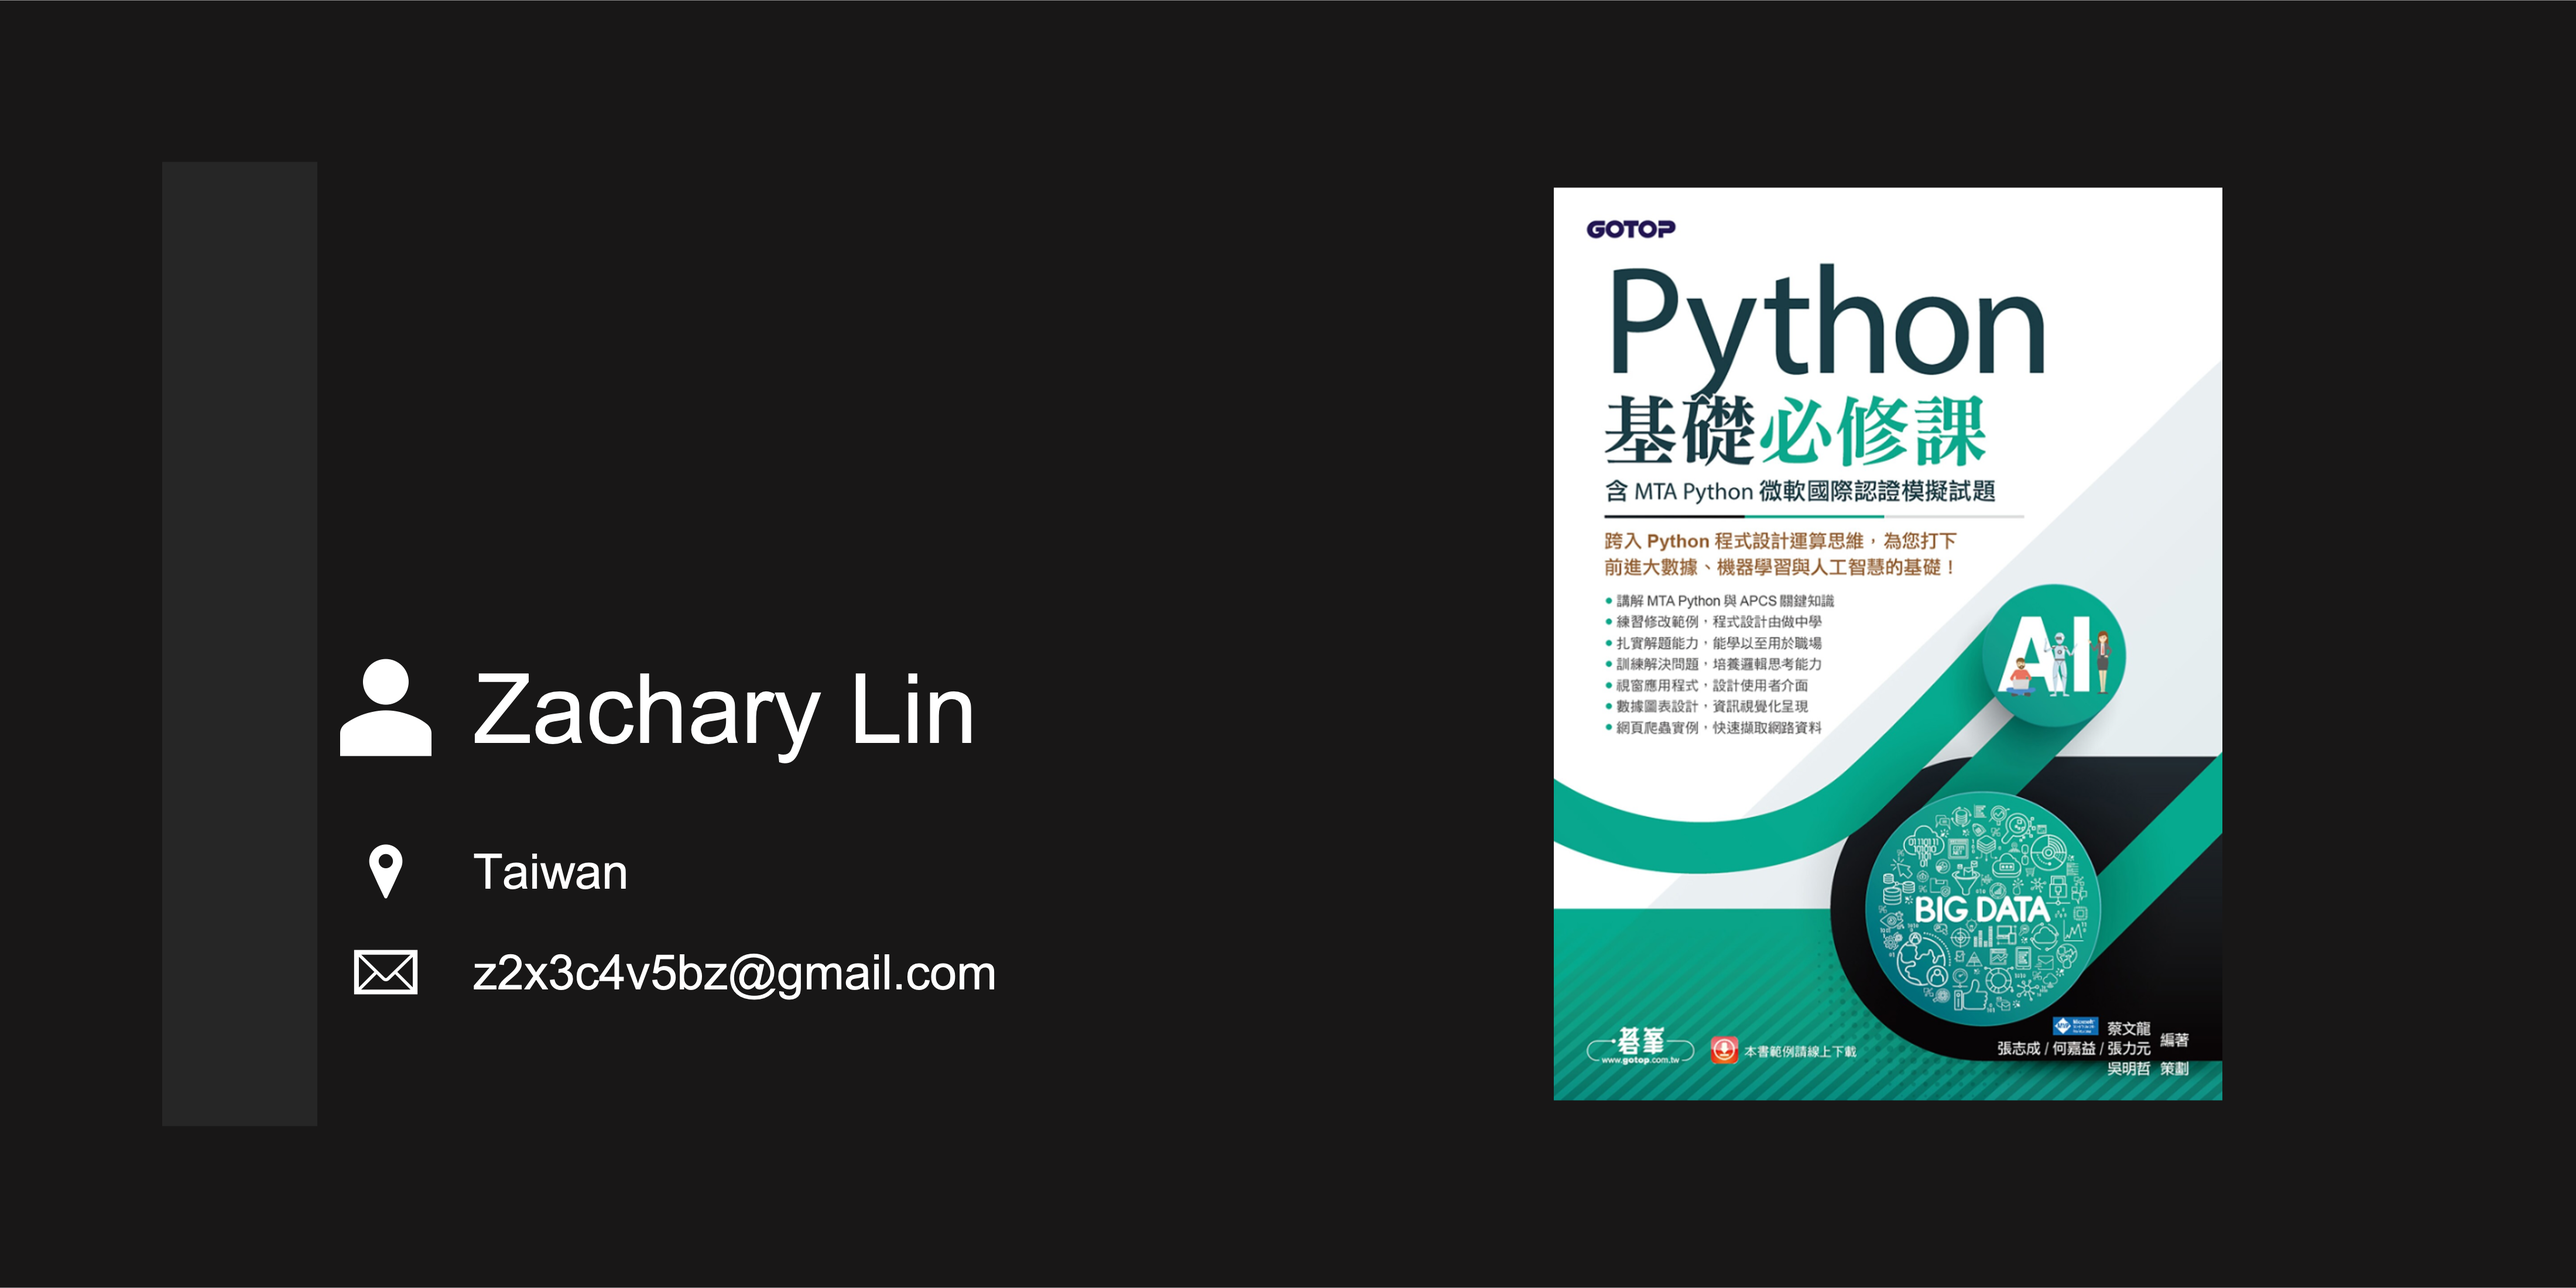
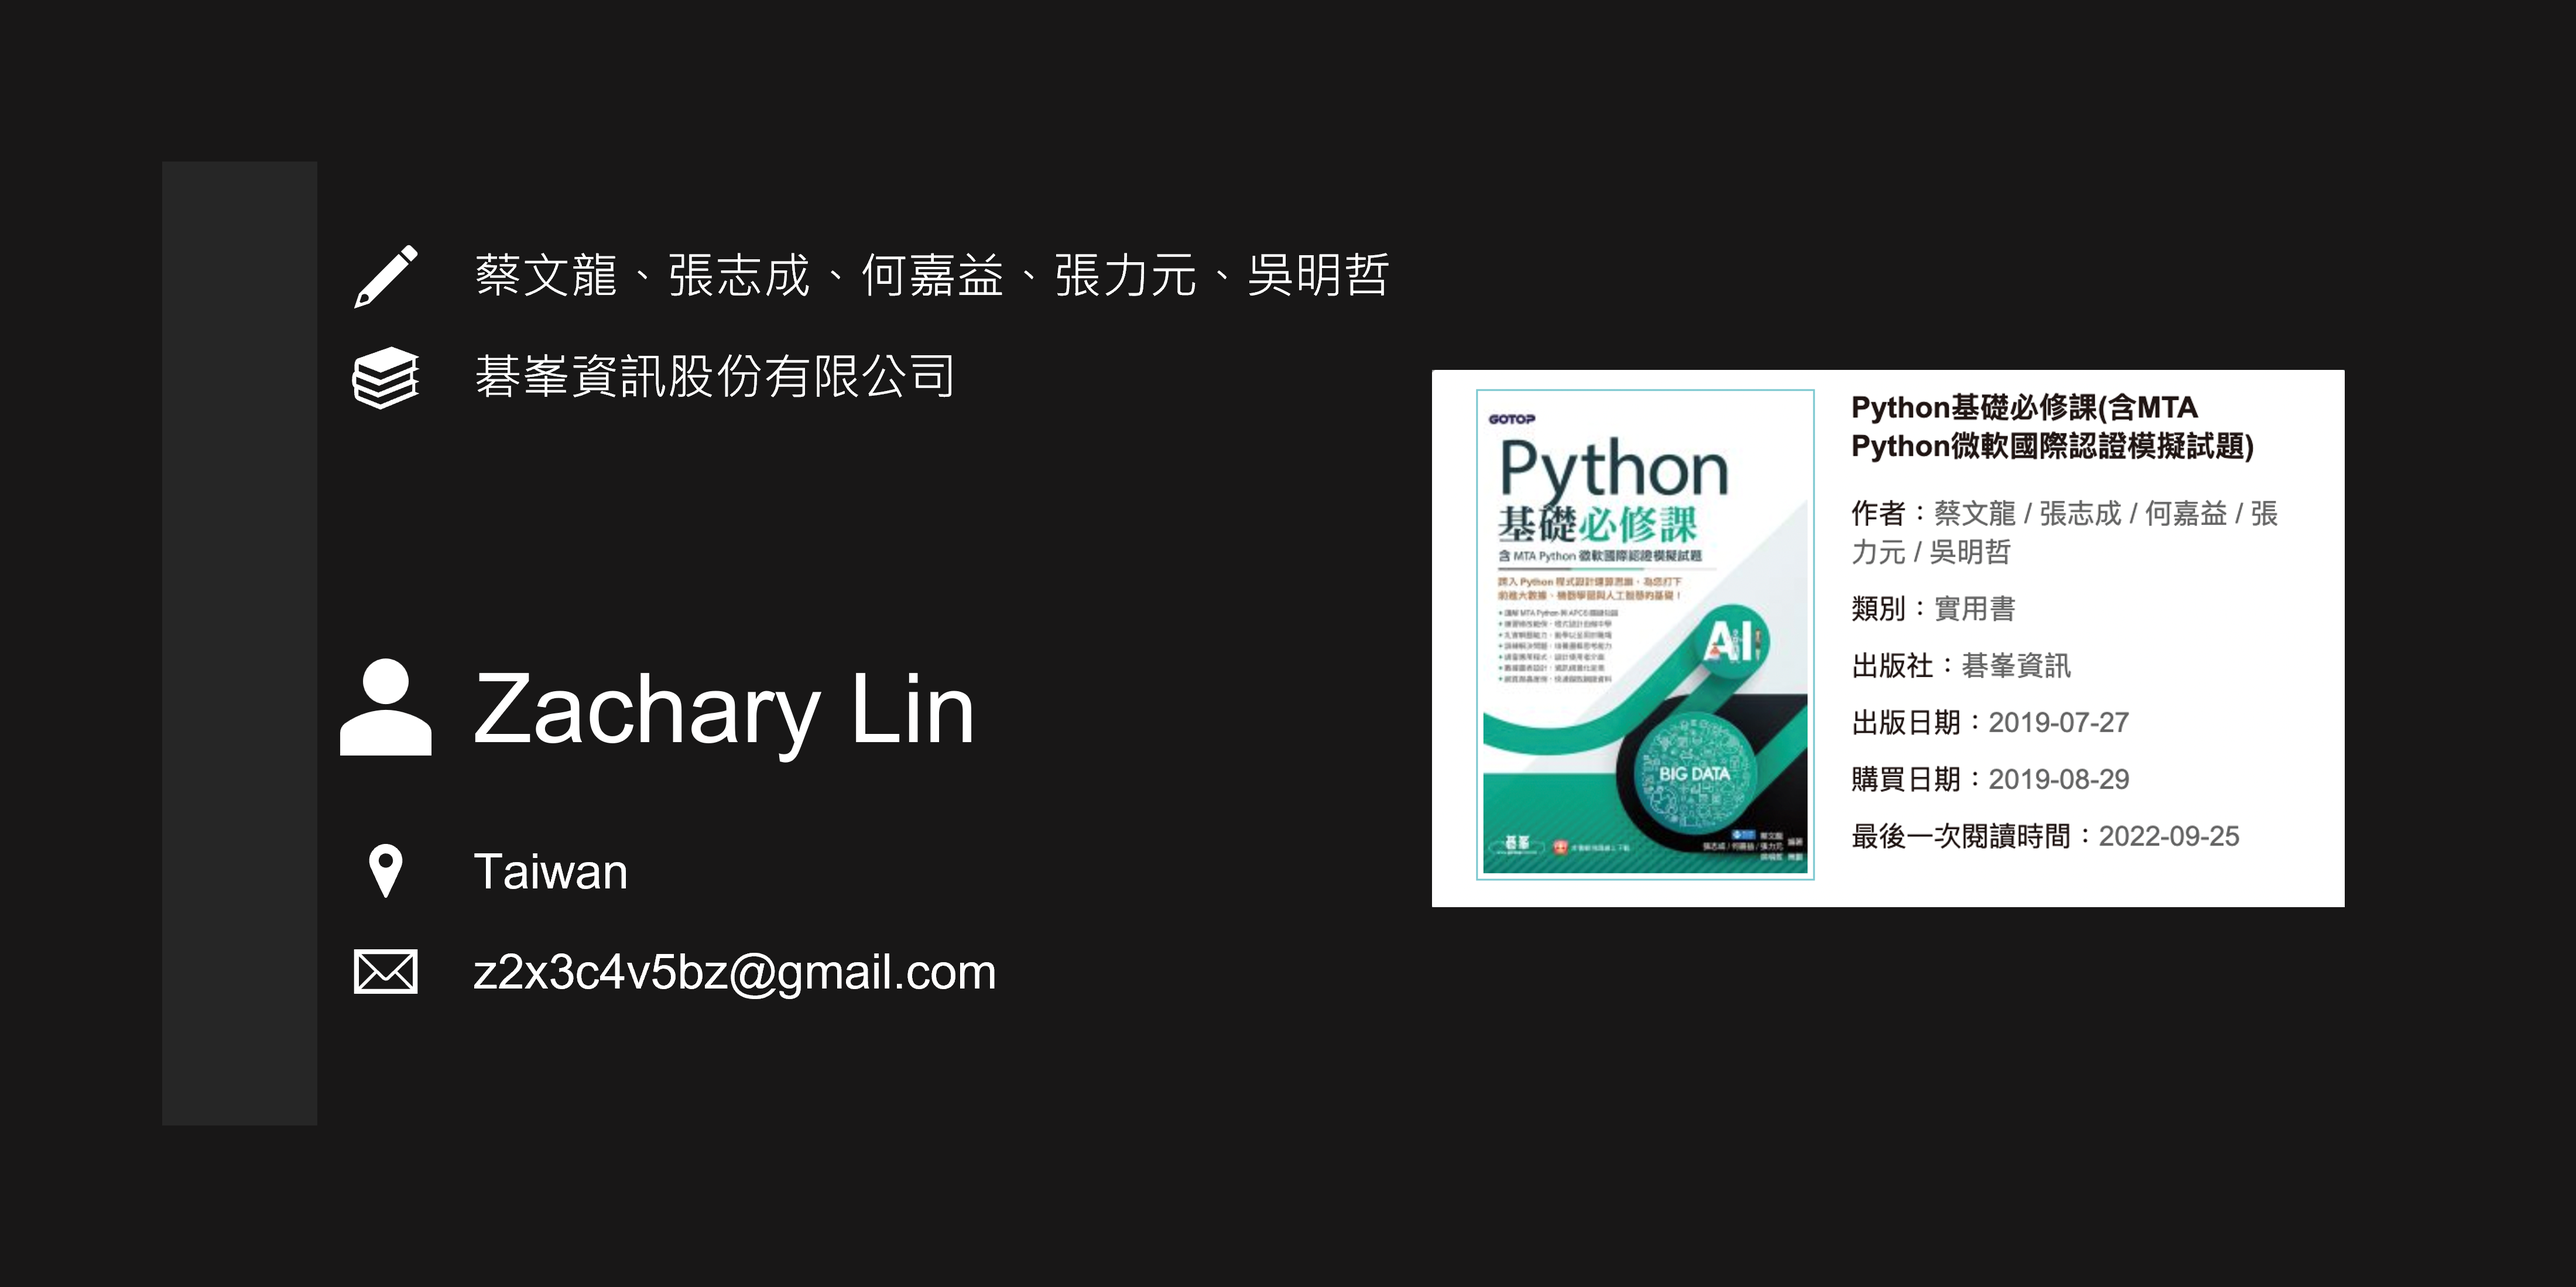
update README and thumbnail

diff --git a/README.md b/README.md
@@ -8,9 +8,11 @@
 
 ## Abstract ##
 
-**Title:** Python 基礎必修課
+**Title:** Python基礎必修課(含MTA Python微軟國際認證模擬試題)
 
-**Auther:** 蔡文龍、張志成、何嘉益、張力元
+**Auther:** 蔡文龍、張志成、何嘉益、張力元、吳明哲
+
+**Publisher:** 碁峯資訊股份有限公司
 
 **Introduction:**
 
